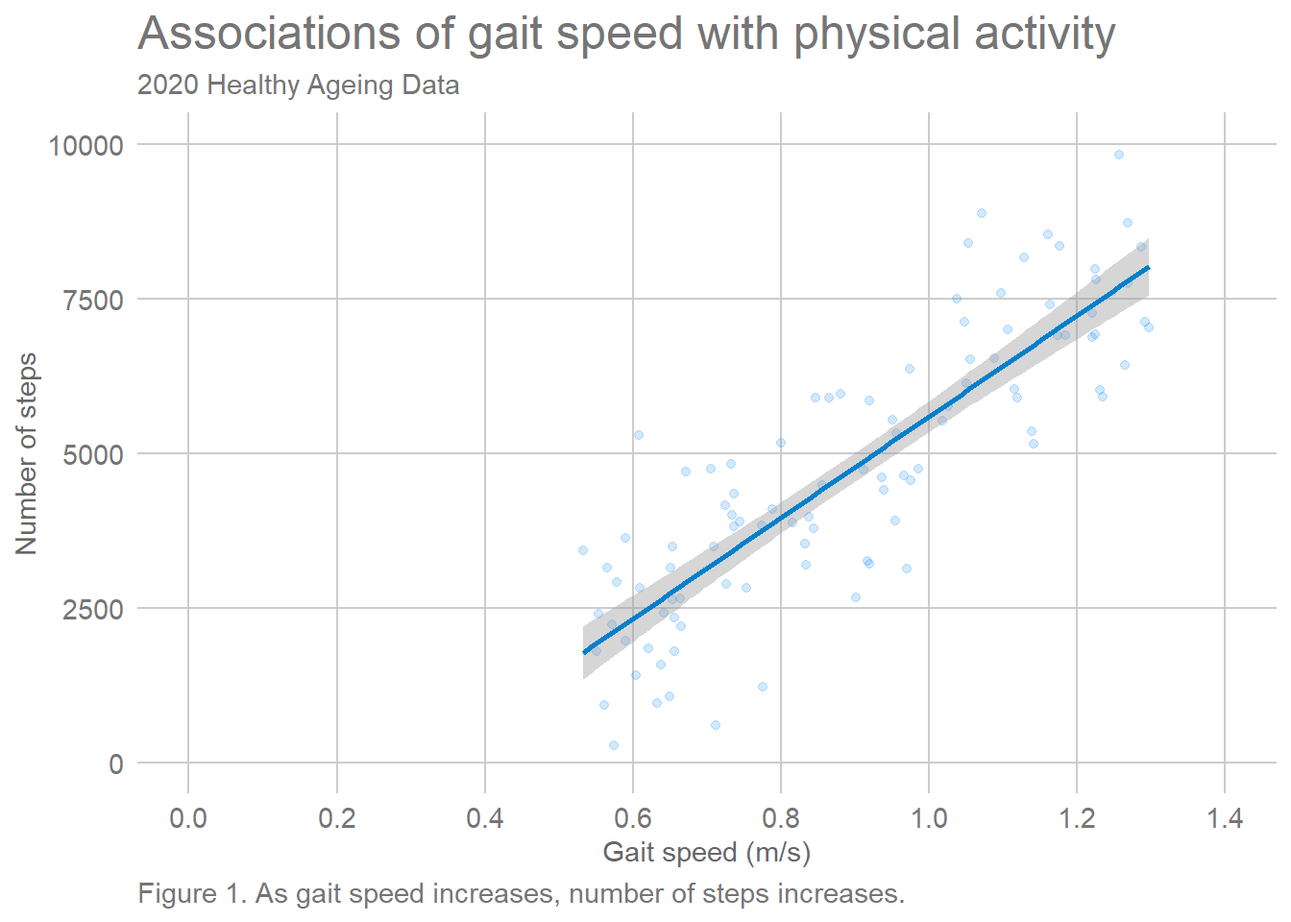
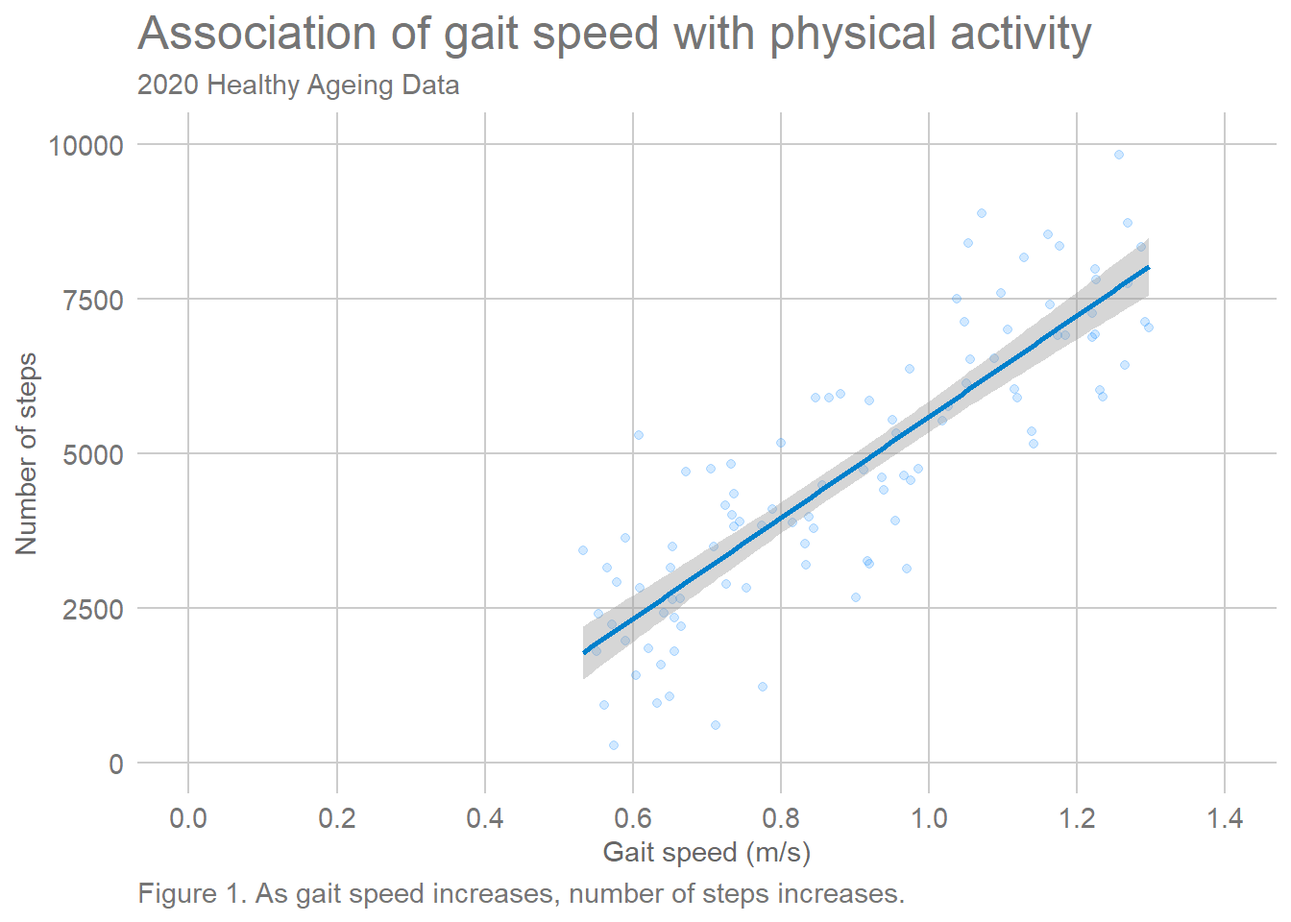
commit

Changed region(s): [[0.2812, 0.0, 0.875, 0.0625]]

diff --git a/docs/03-viz.html b/docs/03-viz.html
@@ -424,7 +424,7 @@ gtag('config', 'G-6NP3MF25W3', { 'anonymize_ip': true});
 </li>
 <li>Save it inside your ADS directory (<strong>not</strong> inside another project)</li>
 </ul>
-<p>Then, create and save a new <a href="https://psyteachr.github.io/glossary/r#r-markdown" target="_blank" class="glossary" title="The R-specific version of markdown: a way to specify formatting, such as headers, paragraphs, lists, bolding, and links, as well as code blocks and inline code.">R Markdown</a> document named <code>plots.Rmd</code>, get rid of the default template text, and load the packages in the set-up code <a href="https://psyteachr.github.io/glossary/c#chunk" target="_blank" class="glossary" title="A section of code in an R Markdown file">chunk</a>. You should have all of these packages installed already, but if you get the message <code>Error in library(x) : there is no package called ‘x’</code>, please refer to <a href="01-intro.html#sec-install-package" class="quarto-xref"><span>Section 1.3.1</span></a>.</p>
+<p>Then, create and save a new <a href="https://psyteachr.github.io/glossary/r#r-markdown" target="_blank" class="glossary" title="The R-specific version of markdown: a way to specify formatting, such as headers, paragraphs, lists, bolding, and links, as well as code blocks and inline code.">R Markdown</a> document named <code>plots.Rmd</code>, get rid of the default template text, and load the packages in the set-up code <a href="https://psyteachr.github.io/glossary/c#chunk" target="_blank" class="glossary" title="A section of code in an R Markdown file">chunk</a>. You should have all of these packages installed already, but if you get the message <code>Error in library(x) : there is no package called ‘x’</code>, please refer to <a href="#sec-install-package" class="quarto-xref"><span class="quarto-unresolved-ref">sec-install-package</span></a>.</p>
 <div class="cell" data-layout-align="center">
 <div class="sourceCode cell-code" id="cb1"><pre class="sourceCode numberSource r number-lines code-with-copy"><code class="sourceCode r"><span id="cb1-1"><a href="#cb1-1"></a><span class="fu">library</span>(tidyverse) <span class="co"># includes ggplot2</span></span>
 <span id="cb1-2"><a href="#cb1-2"></a><span class="fu">library</span>(patchwork) <span class="co"># for multi-part plots</span></span>
@@ -435,7 +435,7 @@ gtag('config', 'G-6NP3MF25W3', { 'anonymize_ip': true});
 <p>Download the <a href="https://raw.githubusercontent.com/rstudio/cheatsheets/main/data-visualization.pdf">ggplot2 cheat sheet</a>.</p>
 </section><section id="variable-types" class="level2" data-number="3.2"><h2 data-number="3.2" class="anchored" data-anchor-id="variable-types">
 <span class="header-section-number">3.2</span> Variable types</h2>
-<p>If a spreadsheet is in a <a href="https://psyteachr.github.io/glossary/t#tidy-data" target="_blank" class="glossary" title="A format for data that maps the meaning onto the structure.">tidy data</a> format, each row is an <a href="https://psyteachr.github.io/glossary/o#observation" target="_blank" class="glossary" title="All of the data about a single trial or question.">observation</a>, each column is a <a href="https://psyteachr.github.io/glossary/v#variable" target="_blank" class="glossary" title="(coding): A word that identifies and stores the value of some data for later use; (stats): An attribute or characteristic of an observation that you can measure, count, or describe">variable</a>, and the information in each cell is a single <a href="https://psyteachr.github.io/glossary/v#value" target="_blank" class="glossary" title="A single number or piece of data.">value</a>. We’ll learn more about how to get our data into this format in <a href="08-tidy.html" class="quarto-xref"><span>Chapter 8</span></a>, but to get started we’ll use datasets with the right format.</p>
+<p>If a spreadsheet is in a <a href="https://psyteachr.github.io/glossary/t#tidy-data" target="_blank" class="glossary" title="A format for data that maps the meaning onto the structure.">tidy data</a> format, each row is an <a href="https://psyteachr.github.io/glossary/o#observation" target="_blank" class="glossary" title="All of the data about a single trial or question.">observation</a>, each column is a <a href="https://psyteachr.github.io/glossary/v#variable" target="_blank" class="glossary" title="(coding): A word that identifies and stores the value of some data for later use; (stats): An attribute or characteristic of an observation that you can measure, count, or describe">variable</a>, and the information in each cell is a single <a href="https://psyteachr.github.io/glossary/v#value" target="_blank" class="glossary" title="A single number or piece of data.">value</a>. We’ll learn more about how to get our data into this format in <a href="#sec-tidy" class="quarto-xref"><span class="quarto-unresolved-ref">sec-tidy</span></a>, but to get started we’ll use datasets with the right format.</p>
 <p>For example, the table below lists patients who have recently participated in a rehabilitation programme. Each row is an observation of one patient. There are 6 variables for each patient, their <code>surname</code>, <code>firstname</code>, <code>sex</code>, <code>birthdate</code>, <code>weight</code> (in kg), and <code>generalhealth</code> rating (on a 5-point scale from “very poor” to “very good”).</p>
 <div class="cell" data-layout-align="center">
 <div class="cell-output-display">
@@ -487,7 +487,7 @@ gtag('config', 'G-6NP3MF25W3', { 'anonymize_ip': true});
 </div>
 </div>
 </div>
-<p>Variables can be classified as <a href="https://psyteachr.github.io/glossary/c#continuous" target="_blank" class="glossary" title="Data that can take on any values between other existing values.">continuous</a> (numbers) or <a href="https://psyteachr.github.io/glossary/c#categorical" target="_blank" class="glossary" title="Data that can only take certain values, such as types of pet.">categorical</a> (labels). When you’re plotting data, it’s important to know what kind of variables you have, which can help you decide what types of plots are most appropriate. Each variable also has a <a href="https://psyteachr.github.io/glossary/d#data-type" target="_blank" class="glossary" title="The kind of data represented by an object.">data type</a>, such as <a href="https://psyteachr.github.io/glossary/n#numeric" target="_blank" class="glossary" title="A data type representing a real decimal number or integer.">numeric</a> (numbers), <a href="https://psyteachr.github.io/glossary/c#character" target="_blank" class="glossary" title="A data type representing strings of text.">character</a> (text), or <a href="https://psyteachr.github.io/glossary/l#logical" target="_blank" class="glossary" title="A data type representing TRUE or FALSE values.">logical</a> (TRUE/FALSE values). Some plots can only work on some data types. Make sure you have watched the mini-lecture on types of data from last week before you work through this chapter. Additionally, <a href="app-datatypes.html" class="quarto-xref"><span>Appendix G</span></a> has more details, as this concept will be relevant repeatedly.</p>
+<p>Variables can be classified as <a href="https://psyteachr.github.io/glossary/c#continuous" target="_blank" class="glossary" title="Data that can take on any values between other existing values.">continuous</a> (numbers) or <a href="https://psyteachr.github.io/glossary/c#categorical" target="_blank" class="glossary" title="Data that can only take certain values, such as types of pet.">categorical</a> (labels). When you’re plotting data, it’s important to know what kind of variables you have, which can help you decide what types of plots are most appropriate. Each variable also has a <a href="https://psyteachr.github.io/glossary/d#data-type" target="_blank" class="glossary" title="The kind of data represented by an object.">data type</a>, such as <a href="https://psyteachr.github.io/glossary/n#numeric" target="_blank" class="glossary" title="A data type representing a real decimal number or integer.">numeric</a> (numbers), <a href="https://psyteachr.github.io/glossary/c#character" target="_blank" class="glossary" title="A data type representing strings of text.">character</a> (text), or <a href="https://psyteachr.github.io/glossary/l#logical" target="_blank" class="glossary" title="A data type representing TRUE or FALSE values.">logical</a> (TRUE/FALSE values). Some plots can only work on some data types. Make sure you have watched the mini-lecture on types of data from last week before you work through this chapter. Additionally, <a href="#sec-data-types" class="quarto-xref"><span class="quarto-unresolved-ref">sec-data-types</span></a> has more details, as this concept will be relevant repeatedly.</p>
 <div class="cell" data-layout-align="center">
 <div class="cell-output-display">
 <div class="quarto-figure quarto-figure-center">
@@ -542,7 +542,7 @@ Do not factor numbers
 </div>
 </div>
 </div>
-<p>Sometimes people represent categorical variables with numbers that correspond to names, like 0 = “no” and 1 = “yes”, but values in between don’t have a clear interpretation. If you have control over how the data are recorded, it’s better to use the character names for clarity. You’ll learn how to recode columns in <a href="09-wrangle.html" class="quarto-xref"><span>Chapter 9</span></a>.</p>
+<p>Sometimes people represent categorical variables with numbers that correspond to names, like 0 = “no” and 1 = “yes”, but values in between don’t have a clear interpretation. If you have control over how the data are recorded, it’s better to use the character names for clarity. You’ll learn how to recode columns in <a href="#sec-wrangle" class="quarto-xref"><span class="quarto-unresolved-ref">sec-wrangle</span></a>.</p>
 </section><section id="dates-and-times" class="level3" data-number="3.2.3"><h3 data-number="3.2.3" class="anchored" data-anchor-id="dates-and-times">
 <span class="header-section-number">3.2.3</span> Dates and times</h3>
 <p>Dates and times are a special case of variable. They can act like categorical or continuous variables, and there are special ways to plot them. Dates and times can be hard to work with, but the [<pkg>lubridate</pkg>(https://lubridate.tidyverse.org/) package provides functions to help you with this.</p>
@@ -557,7 +557,7 @@ Do not factor numbers
 <div class="sourceCode cell-code" id="cb8"><pre class="sourceCode numberSource r number-lines code-with-copy"><code class="sourceCode r"><span id="cb8-1"><a href="#cb8-1"></a><span class="co"># the current date and time in the GMT timezone</span></span>
 <span id="cb8-2"><a href="#cb8-2"></a>lubridate<span class="sc">::</span><span class="fu">now</span>(<span class="at">tzone =</span> <span class="st">"GMT"</span>)</span></code><button title="Copy to Clipboard" class="code-copy-button"><i class="bi"></i></button></pre></div>
 <div class="cell-output cell-output-stdout">
-<pre><code>[1] "2024-10-04 15:11:01 GMT"</code></pre>
+<pre><code>[1] "2024-10-04 16:39:12 GMT"</code></pre>
 </div>
 </div>
 <div class="try callout callout-style-default callout-note callout-titled">
@@ -681,7 +681,7 @@ $ generalhealth &lt;fct&gt; poor, very good, fair, very good</code></pre>
 </section></section><section id="building-plots" class="level2" data-number="3.3"><h2 data-number="3.3" class="anchored" data-anchor-id="building-plots">
 <span class="header-section-number">3.3</span> Building plots</h2>
 <p>There are multiple approaches to data visualisation in R; in this course we will use the popular package <pkg>ggplot2</pkg>, which is part of the larger <code>tidyverse</code> collection of packages. A grammar of graphics (the “gg” in “ggplot”) is a standardised way to describe the components of a graphic. <pkg>ggplot2</pkg> uses a layered grammar of graphics, in which plots are built up in a series of layers. It may be helpful to think about any picture as having multiple elements that sit semi-transparently over each other. A good analogy is old Disney movies where artists would create a background and then add moveable elements on top of the background via transparencies.</p>
-<p><a href="#fig-layers" class="quarto-xref">Figure&nbsp;<span>3.1</span></a> displays the evolution of a simple scatterplot using this layered approach. First, the plot space is built (layer 1); the variables are specified (layer 2); the type of visualisation (known as a <code>geom</code>) that is desired for these variables is specified (layer 3) - in this case <code>geom_point()</code> is called to visualise individual data points; a second geom is added to include a line of best fit (layer 4), the axis labels are edited for readability (layer 5), and finally, a theme is applied to change the overall appearance of the plot (layer 6).</p>
+<p><a href="#fig-layers" class="quarto-xref">Figure&nbsp;<span class="quarto-unresolved-ref">fig-layers</span></a> displays the evolution of a simple scatterplot using this layered approach. First, the plot space is built (layer 1); the variables are specified (layer 2); the type of visualisation (known as a <code>geom</code>) that is desired for these variables is specified (layer 3) - in this case <code>geom_point()</code> is called to visualise individual data points; a second geom is added to include a line of best fit (layer 4), the axis labels are edited for readability (layer 5), and finally, a theme is applied to change the overall appearance of the plot (layer 6).</p>
 <div class="cell" data-layout-align="center">
 <div class="cell-output-display">
 <div id="fig-layers" class="quarto-figure quarto-figure-center quarto-float anchored" data-fig-align="center">
@@ -694,7 +694,7 @@ Figure&nbsp;3.1: Evolution of a layered plot
 </div>
 </div>
 </div>
-<p>Importantly, each layer is independent and independently customisable. For example, the size, colour and position of each component can be adjusted, or one could, for example, remove the first geom (the data points) to only visualise the line of best fit, simply by removing the layer that draws the data points (<a href="#fig-remove-layer" class="quarto-xref">Figure&nbsp;<span>3.2</span></a>). The use of layers makes it easy to build up complex plots step-by-step, and to adapt or extend plots from existing code.</p>
+<p>Importantly, each layer is independent and independently customisable. For example, the size, colour and position of each component can be adjusted, or one could, for example, remove the first geom (the data points) to only visualise the line of best fit, simply by removing the layer that draws the data points (<a href="#fig-remove-layer" class="quarto-xref">Figure&nbsp;<span class="quarto-unresolved-ref">fig-remove-layer</span></a>). The use of layers makes it easy to build up complex plots step-by-step, and to adapt or extend plots from existing code.</p>
 <div class="cell" data-layout-align="center">
 <div class="cell-output-display">
 <div id="fig-remove-layer" class="quarto-figure quarto-figure-center quarto-float anchored" data-fig-align="center">
@@ -709,7 +709,7 @@ Figure&nbsp;3.2: Final plot with scatterplot layer removed.
 </div>
 <section id="sec-plots-loading-data" class="level3" data-number="3.3.1"><h3 data-number="3.3.1" class="anchored" data-anchor-id="sec-plots-loading-data">
 <span class="header-section-number">3.3.1</span> Plot Data</h3>
-<p>Let’s build up the plot above, layer by layer. First we need to get the data. We’ll learn how to load data from different sources in <a href="04-data.html" class="quarto-xref"><span>Chapter 4</span></a>, but this time we’ll use the same method as we did in <a href="02-reports.html#sec-loading-online" class="quarto-xref"><span>Section 2.4.1</span></a> and load it from an online source.</p>
+<p>Let’s build up the plot above, layer by layer. First we need to get the data. We’ll learn how to load data from different sources in <a href="#sec-data" class="quarto-xref"><span class="quarto-unresolved-ref">sec-data</span></a>, but this time we’ll use the same method as we did in <a href="#sec-loading-online" class="quarto-xref"><span class="quarto-unresolved-ref">sec-loading-online</span></a> and load it from an online source.</p>
 <p>When you load the data, <code>read_csv()</code> will produce a message that gives you information about the data it has imported and what assumptions it has made. The “column specification” tells you what each column is named and what type of data R has categorised each variable as. The abbreviation “chr” is for <a href="https://psyteachr.github.io/glossary/c#character" target="_blank" class="glossary" title="A data type representing strings of text.">character</a> columns, “dbl” is for <a href="https://psyteachr.github.io/glossary/d#double" target="_blank" class="glossary" title="A data type representing a real decimal number">double</a> columns, and “dttm” is a date/time column.</p>
 <div class="cell" data-layout-align="center">
 <div class="sourceCode cell-code" id="cb12"><pre class="sourceCode numberSource r number-lines code-with-copy"><code class="sourceCode r"><span id="cb12-1"><a href="#cb12-1"></a>function_data <span class="ot">&lt;-</span> <span class="fu">read_csv</span>(<span class="st">"https://healthteachr.github.io/data/Function_and_PA_data.csv"</span>)</span></code><button title="Copy to Clipboard" class="code-copy-button"><i class="bi"></i></button></pre></div>
@@ -801,7 +801,7 @@ Define objects before you use them
 </section><section id="plot-setup" class="level3" data-number="3.3.2"><h3 data-number="3.3.2" class="anchored" data-anchor-id="plot-setup">
 <span class="header-section-number">3.3.2</span> Plot setup</h3>
 <section id="default-theme" class="level4"><h4 class="anchored" data-anchor-id="default-theme">Default theme</h4>
-<p>Plots in this book use the black-and-white theme, not the default grey theme, so set your default theme to the same so your plots will look like the examples below. At the top of your script, in the setup chunk after you’ve loaded the tidyverse package, add the following code and run it. You’ll learn more ways to customise your theme in <a href="#sec-themes" class="quarto-xref"><span>Section 3.3.3.4</span></a> and <a href="app-styling.html#sec-themes-appendix" class="quarto-xref"><span>Section I.3</span></a>.</p>
+<p>Plots in this book use the black-and-white theme, not the default grey theme, so set your default theme to the same so your plots will look like the examples below. At the top of your script, in the setup chunk after you’ve loaded the tidyverse package, add the following code and run it. You’ll learn more ways to customise your theme in <a href="#sec-themes" class="quarto-xref"><span class="quarto-unresolved-ref">sec-themes</span></a> and <a href="#sec-themes-appendix" class="quarto-xref"><span class="quarto-unresolved-ref">sec-themes-appendix</span></a>.</p>
 <div class="cell" data-layout-align="center">
 <div class="sourceCode cell-code" id="cb17"><pre class="sourceCode numberSource r number-lines code-with-copy"><code class="sourceCode r"><span id="cb17-1"><a href="#cb17-1"></a><span class="fu">theme_set</span>(<span class="fu">theme_bw</span>()) <span class="co"># set the default theme</span></span></code><button title="Copy to Clipboard" class="code-copy-button"><i class="bi"></i></button></pre></div>
 </div>
@@ -979,7 +979,7 @@ Try changing nrow to 2
 <span class="header-section-number">3.3.3</span> Customising plots</h3>
 <p>There are nearly endless ways to customise ggplots. We’ll cover a few of the basic customisations here.</p>
 <section id="styling-geoms" class="level4"><h4 class="anchored" data-anchor-id="styling-geoms">Styling geoms</h4>
-<p>We should definitely put the line in front of the points, but the points are still a bit dark. If you want to change the overall style of a geom, you can set the arguments <code>colour</code>, <code>alpha</code>, <code>shape</code>, <code>size</code> and <code>linetype</code> inside the geom function. There are many different values that you can set these to; <a href="app-styling.html" class="quarto-xref"><span>Appendix I</span></a>) gives details of these. Play around with different values below and figure out what the <a href="https://psyteachr.github.io/glossary/d#default-value" target="_blank" class="glossary" title="A value that a function uses for an argument if it is skipped.">default values</a> are for <code>shape</code> and <code>size</code>.</p>
+<p>We should definitely put the line in front of the points, but the points are still a bit dark. If you want to change the overall style of a geom, you can set the arguments <code>colour</code>, <code>alpha</code>, <code>shape</code>, <code>size</code> and <code>linetype</code> inside the geom function. There are many different values that you can set these to; <a href="#sec-plotstyle" class="quarto-xref"><span class="quarto-unresolved-ref">sec-plotstyle</span></a>) gives details of these. Play around with different values below and figure out what the <a href="https://psyteachr.github.io/glossary/d#default-value" target="_blank" class="glossary" title="A value that a function uses for an argument if it is skipped.">default values</a> are for <code>shape</code> and <code>size</code>.</p>
 <div class="cell" data-layout-align="center">
 <div class="sourceCode cell-code" id="cb29"><pre class="sourceCode numberSource r number-lines code-with-copy"><code class="sourceCode r"><span id="cb29-1"><a href="#cb29-1"></a><span class="fu">ggplot</span>(function_data, <span class="fu">aes</span>(<span class="at">x =</span> gaitspeed, <span class="at">y =</span> steps)) <span class="sc">+</span></span>
 <span id="cb29-2"><a href="#cb29-2"></a>  <span class="fu">geom_point</span>(<span class="at">colour =</span> <span class="st">"dodgerblue"</span>, </span>
@@ -1012,7 +1012,7 @@ Setting aesthetics overall versus by category
 </div>
 </div>
 <div class="callout-body-container callout-body">
-<p>This method is only for changing the style of <em>all</em> the shapes made with that geom. If you want, for example, points to have different colours depending on the type of musculoskeletal disease, you set the argument <code>colour = musculoskeletal</code> inside the <code>aes()</code> function for the mapping. You can customise the colours used with <code>scale_</code> functions, which you will learn about below and in <a href="app-styling.html" class="quarto-xref"><span>Appendix I</span></a>).</p>
+<p>This method is only for changing the style of <em>all</em> the shapes made with that geom. If you want, for example, points to have different colours depending on the type of musculoskeletal disease, you set the argument <code>colour = musculoskeletal</code> inside the <code>aes()</code> function for the mapping. You can customise the colours used with <code>scale_</code> functions, which you will learn about below and in <a href="#sec-plotstyle" class="quarto-xref"><span class="quarto-unresolved-ref">sec-plotstyle</span></a>).</p>
 </div>
 </div>
 </section><section id="format-axes" class="level4"><h4 class="anchored" data-anchor-id="format-axes">Format axes</h4>
@@ -1183,7 +1183,7 @@ Figure&nbsp;3.12: Customising the theme to remove the x-axis line and background
 <span id="cb36-13"><a href="#cb36-13"></a>  <span class="fu">theme_gdocs</span>(<span class="at">base_size =</span> <span class="dv">11</span>) <span class="sc">+</span></span>
 <span id="cb36-14"><a href="#cb36-14"></a>  <span class="fu">theme</span>(<span class="at">axis.line.x =</span> <span class="fu">element_blank</span>(),</span>
 <span id="cb36-15"><a href="#cb36-15"></a>        <span class="at">plot.background =</span> <span class="fu">element_blank</span>()) <span class="sc">+</span></span>
-<span id="cb36-16"><a href="#cb36-16"></a>  <span class="fu">labs</span>(<span class="at">title =</span> <span class="st">"Associations of gait speed with physical activity"</span>,</span>
+<span id="cb36-16"><a href="#cb36-16"></a>  <span class="fu">labs</span>(<span class="at">title =</span> <span class="st">"Association of gait speed with physical activity"</span>,</span>
 <span id="cb36-17"><a href="#cb36-17"></a>       <span class="at">subtitle =</span> <span class="st">"2020 Healthy Ageing Data"</span>,</span>
 <span id="cb36-18"><a href="#cb36-18"></a>       <span class="at">caption =</span> <span class="st">"Figure 1. As gait speed increases, number of steps increases."</span>)</span></code><button title="Copy to Clipboard" class="code-copy-button"><i class="bi"></i></button></pre></div>
 <div class="cell-output-display">
@@ -1197,7 +1197,7 @@ Figure&nbsp;3.13: Adding a title, subtitle, and caption.
 </div>
 </div>
 </div>
-<p>However, it is more accessible to include this sort of information in plain text for screen readers. You can add a text caption in the chunk header, and some document types will even automatically number figures for you (you’ll learn about this in <a href="10-custom.html#sec-linked-docs" class="quarto-xref"><span>Section 10.2.2</span></a>). You can also add alt-text descriptions for screen readers that describe the image.</p>
+<p>However, it is more accessible to include this sort of information in plain text for screen readers. You can add a text caption in the chunk header, and some document types will even automatically number figures for you (you’ll learn about this in <a href="#sec-linked-docs" class="quarto-xref"><span class="quarto-unresolved-ref">sec-linked-docs</span></a>). You can also add alt-text descriptions for screen readers that describe the image.</p>
 <div class="cell" data-layout-align="center" data-verbatim="r fig-gait-vs-steps, fig.cap=&quot;As gait speed increases, number of steps increases.&quot;, fig.alt=&quot;A scatterplot showing gait speed on the x-axis (range 0.0-1.3 m/s) and number of steps on the y-axis (range 0-9829 steps) with a trend line showing that as gait speed increases, number of steps increases from about 0.6m/s gait speed/2400 steps to about 1.2m/s gait speed/7400 steps.&quot;">
 <div class="verbatim">
 <pre class="sourceCode r code-with-copy"><code class="sourceCode R">```{r fig-gait-vs-steps, fig.cap="As gait speed increases, number of steps increases.", fig.alt="A scatterplot showing gait speed on the x-axis (range 0.0-1.3 m/s) and number of steps on the y-axis (range 0-9829 steps) with a trend line showing that as gait speed increases, number of steps increases from about 0.6m/s gait speed/2400 steps to about 1.2m/s gait speed/7400 steps."}</code><button title="Copy to Clipboard" class="code-copy-button"><i class="bi"></i></button></pre>
@@ -1238,7 +1238,7 @@ Customising bar plot appearance
 </div>
 </div>
 <div class="callout-body-container callout-body">
-<p>You probably want to customise some things, like the colours, order of the columns, and their labels. Inspect the code below and try running it layer by layer to figure out where these things change. The functions <code>scale_fill_manual()</code> and <code>scale_x_discrete()</code> are new, but work in the same way as the other <code>scale_</code> functions. You’ll learn more about this in <a href="10-custom.html#sec-custom-viz" class="quarto-xref"><span>Section 10.1</span></a>.</p>
+<p>You probably want to customise some things, like the colours, order of the columns, and their labels. Inspect the code below and try running it layer by layer to figure out where these things change. The functions <code>scale_fill_manual()</code> and <code>scale_x_discrete()</code> are new, but work in the same way as the other <code>scale_</code> functions. You’ll learn more about this in <a href="#sec-custom-viz" class="quarto-xref"><span class="quarto-unresolved-ref">sec-custom-viz</span></a>.</p>
 <div class="cell" data-layout-align="center" data-webex.hide="Code">
 <div class="callout callout-style-default callout-note callout-titled">
 <div class="callout-header d-flex align-content-center" data-bs-toggle="collapse" data-bs-target=".callout-10-contents" aria-controls="callout-10" aria-expanded="false" aria-label="Toggle callout">
@@ -1366,7 +1366,7 @@ Figure&nbsp;3.15: A basic column plot.
 </div>
 </div>
 </section><section id="pie-chart" class="level4"><h4 class="anchored" data-anchor-id="pie-chart">Pie chart</h4>
-<p>Pie charts are a <a href="https://www.data-to-viz.com/caveat/pie.html" target="_blank">misleading form of data visualisation</a>, so we won’t cover them. We’ll cover options for visualising proportions, like waffle, lollipop and treemap plots, in <a href="10-custom.html#sec-other-plots" class="quarto-xref"><span>Section 10.1.4</span></a>.</p>
+<p>Pie charts are a <a href="https://www.data-to-viz.com/caveat/pie.html" target="_blank">misleading form of data visualisation</a>, so we won’t cover them. We’ll cover options for visualising proportions, like waffle, lollipop and treemap plots, in <a href="#sec-other-plots" class="quarto-xref"><span class="quarto-unresolved-ref">sec-other-plots</span></a>.</p>
 <div class="try callout callout-style-default callout-note callout-titled">
 <div class="callout-header d-flex align-content-center">
 <div class="callout-icon-container">
@@ -1421,8 +1421,8 @@ Test your understanding
 <div class="cell" data-layout-align="center">
 <ul>
 <li>What mapping would you use?
-<div id="radio_EPHIGYNLNV" class="webex-radiogroup">
-<label><input type="radio" autocomplete="off" name="radio_EPHIGYNLNV" value="answer"><span>aes(x = country, y = population)</span></label><label><input type="radio" autocomplete="off" name="radio_EPHIGYNLNV" value="x"><span>aes(x = population, y = country)</span></label><label><input type="radio" autocomplete="off" name="radio_EPHIGYNLNV" value="x"><span>aes(x = country)</span></label><label><input type="radio" autocomplete="off" name="radio_EPHIGYNLNV" value="x"><span>aes(x = island)</span></label><label><input type="radio" autocomplete="off" name="radio_EPHIGYNLNV" value="x"><span>aes(y = population)</span></label>
+<div id="radio_YAEQMNOVWT" class="webex-radiogroup">
+<label><input type="radio" autocomplete="off" name="radio_YAEQMNOVWT" value="answer"><span>aes(x = country, y = population)</span></label><label><input type="radio" autocomplete="off" name="radio_YAEQMNOVWT" value="x"><span>aes(x = population, y = country)</span></label><label><input type="radio" autocomplete="off" name="radio_YAEQMNOVWT" value="x"><span>aes(x = country)</span></label><label><input type="radio" autocomplete="off" name="radio_YAEQMNOVWT" value="x"><span>aes(x = island)</span></label><label><input type="radio" autocomplete="off" name="radio_YAEQMNOVWT" value="x"><span>aes(y = population)</span></label>
 </div>
 </li>
 </ul>
@@ -1436,8 +1436,8 @@ Test your understanding
 <div class="cell" data-layout-align="center">
 <ul>
 <li>What mapping would you use?
-<div id="radio_IAEOUYKDAV" class="webex-radiogroup">
-<label><input type="radio" autocomplete="off" name="radio_IAEOUYKDAV" value="x"><span>aes(x = country, y = population)</span></label><label><input type="radio" autocomplete="off" name="radio_IAEOUYKDAV" value="x"><span>aes(x = population, y = country)</span></label><label><input type="radio" autocomplete="off" name="radio_IAEOUYKDAV" value="x"><span>aes(x = country)</span></label><label><input type="radio" autocomplete="off" name="radio_IAEOUYKDAV" value="answer"><span>aes(x = island)</span></label><label><input type="radio" autocomplete="off" name="radio_IAEOUYKDAV" value="x"><span>aes(y = population)</span></label>
+<div id="radio_QAARLQQLTX" class="webex-radiogroup">
+<label><input type="radio" autocomplete="off" name="radio_QAARLQQLTX" value="x"><span>aes(x = country, y = population)</span></label><label><input type="radio" autocomplete="off" name="radio_QAARLQQLTX" value="x"><span>aes(x = population, y = country)</span></label><label><input type="radio" autocomplete="off" name="radio_QAARLQQLTX" value="x"><span>aes(x = country)</span></label><label><input type="radio" autocomplete="off" name="radio_QAARLQQLTX" value="answer"><span>aes(x = island)</span></label><label><input type="radio" autocomplete="off" name="radio_QAARLQQLTX" value="x"><span>aes(y = population)</span></label>
 </div>
 </li>
 </ul>
@@ -1532,8 +1532,8 @@ Test your understanding
 <div class="cell" data-layout-align="center">
 <ul>
 <li>How would you set the mapping for this plot?
-<div id="radio_OVUYXVFTRL" class="webex-radiogroup">
-<label><input type="radio" autocomplete="off" name="radio_OVUYXVFTRL" value="x"><span>aes(x = country, y = population)</span></label><label><input type="radio" autocomplete="off" name="radio_OVUYXVFTRL" value="x"><span>aes(x = population, y = country)</span></label><label><input type="radio" autocomplete="off" name="radio_OVUYXVFTRL" value="answer"><span>aes(x = population)</span></label><label><input type="radio" autocomplete="off" name="radio_OVUYXVFTRL" value="x"><span>aes(x = population, y = count)</span></label>
+<div id="radio_ENYCZOQOCL" class="webex-radiogroup">
+<label><input type="radio" autocomplete="off" name="radio_ENYCZOQOCL" value="x"><span>aes(x = country, y = population)</span></label><label><input type="radio" autocomplete="off" name="radio_ENYCZOQOCL" value="x"><span>aes(x = population, y = country)</span></label><label><input type="radio" autocomplete="off" name="radio_ENYCZOQOCL" value="answer"><span>aes(x = population)</span></label><label><input type="radio" autocomplete="off" name="radio_ENYCZOQOCL" value="x"><span>aes(x = population, y = count)</span></label>
 </div>
 </li>
 </ul>
@@ -1674,7 +1674,7 @@ Frequency plot alternative
 </div>
 <div id="callout-17" class="callout-17-contents callout-collapse collapse">
 <div class="callout-body-container callout-body">
-<p>Alternatively, you can use <code>geom_freqpoly()</code> to plot a line connecting the top of each bin (see <a href="10-custom.html#sec-freqpoly" class="quarto-xref"><span>Section 10.1.4.1.1</span></a>).</p>
+<p>Alternatively, you can use <code>geom_freqpoly()</code> to plot a line connecting the top of each bin (see <a href="#sec-freqpoly" class="quarto-xref"><span class="quarto-unresolved-ref">sec-freqpoly</span></a>).</p>
 <div class="cell" data-layout-align="center">
 <div class="sourceCode cell-code" id="cb53"><pre class="sourceCode numberSource r number-lines code-with-copy"><code class="sourceCode r"><span id="cb53-1"><a href="#cb53-1"></a><span class="co"># frequency plot</span></span>
 <span id="cb53-2"><a href="#cb53-2"></a><span class="fu">ggplot</span>(function_data, <span class="fu">aes</span>(<span class="at">x =</span> steps,</span>
@@ -1856,22 +1856,22 @@ Test your understanding
 <option value="x">geom_violinplot()</option></select>
 </li>
 <li>What does the mapping look like for both plots?
-<div id="radio_YETQAFVVFN" class="webex-radiogroup">
-<label><input type="radio" autocomplete="off" name="radio_YETQAFVVFN" value="x"><span>aes(x = musculoskeletal, y = gaitspeed, fill = gaitspeed)</span></label><label><input type="radio" autocomplete="off" name="radio_YETQAFVVFN" value="x"><span>aes(x = musculoskeletal, y = gaitspeed, colour = musculoskeletal)</span></label><label><input type="radio" autocomplete="off" name="radio_YETQAFVVFN" value="answer"><span>aes(x = musculoskeletal, y = gaitspeed, fill = musculoskeletal)</span></label><label><input type="radio" autocomplete="off" name="radio_YETQAFVVFN" value="x"><span>aes(x = musculoskeletal, y = gaitspeed, colour = gaitspeed)</span></label>
+<div id="radio_TNILQFCZRH" class="webex-radiogroup">
+<label><input type="radio" autocomplete="off" name="radio_TNILQFCZRH" value="answer"><span>aes(x = musculoskeletal, y = gaitspeed, fill = musculoskeletal)</span></label><label><input type="radio" autocomplete="off" name="radio_TNILQFCZRH" value="x"><span>aes(x = musculoskeletal, y = gaitspeed, colour = gaitspeed)</span></label><label><input type="radio" autocomplete="off" name="radio_TNILQFCZRH" value="x"><span>aes(x = musculoskeletal, y = gaitspeed, fill = gaitspeed)</span></label><label><input type="radio" autocomplete="off" name="radio_TNILQFCZRH" value="x"><span>aes(x = musculoskeletal, y = gaitspeed, colour = musculoskeletal)</span></label>
 </div>
 </li>
 <li>Which category is characterised by the slowest median gait speed? <select class="webex-select"><option value="blank"></option>
-<option value="x">None</option>
 <option value="x">Osteoarthritis</option>
-<option value="x">Rheumatoid arthritis</option>
 <option value="x">Sarcopenia</option>
+<option value="x">None</option>
+<option value="x">Rheumatoid arthritis</option>
 <option value="answer">Osteoporosis</option></select>
 </li>
 <li>Which category is characterised by the quickest median gait speed? <select class="webex-select"><option value="blank"></option>
-<option value="x">Rheumatoid arthritis</option>
 <option value="answer">None</option>
 <option value="x">Sarcopenia</option>
 <option value="x">Osteoporosis</option>
+<option value="x">Rheumatoid arthritis</option>
 <option value="x">Osteoarthritis</option></select>
 </li>
 </ul>
@@ -1897,7 +1897,7 @@ Figure&nbsp;3.25: Scatterplot with geom_point().
 </div>
 </div>
 </section><section id="trendlines" class="level4"><h4 class="anchored" data-anchor-id="trendlines">Trendlines</h4>
-<p>In <a href="#fig-layers" class="quarto-xref">Figure&nbsp;<span>3.1</span></a>, we emphasised the relationship between gait speed and number of steps with a trendline created by <code>geom_smooth()</code> using the argument <code>method = lm</code> (“lm” stands for “linear model” or a straight line relationship). You can also set <code>method = loess</code> to visualise a non-linear relationship.</p>
+<p>In <a href="#fig-layers" class="quarto-xref">Figure&nbsp;<span class="quarto-unresolved-ref">fig-layers</span></a>, we emphasised the relationship between gait speed and number of steps with a trendline created by <code>geom_smooth()</code> using the argument <code>method = lm</code> (“lm” stands for “linear model” or a straight line relationship). You can also set <code>method = loess</code> to visualise a non-linear relationship.</p>
 <div class="cell" data-layout-align="center">
 <div class="sourceCode cell-code" id="cb59"><pre class="sourceCode numberSource r number-lines code-with-copy"><code class="sourceCode r"><span id="cb59-1"><a href="#cb59-1"></a>lm_plot <span class="ot">&lt;-</span> </span>
 <span id="cb59-2"><a href="#cb59-2"></a>  <span class="fu">ggplot</span>(function_data, <span class="fu">aes</span>(<span class="at">x =</span> gaitspeed, <span class="at">y =</span> steps)) <span class="sc">+</span></span>
@@ -2103,12 +2103,12 @@ More plots styles
 </div>
 </div>
 <div class="callout-body-container callout-body">
-<p>These are not, by any means, all the plot types that you can make in R. This chapter just gave you a basic overview, and we will go into more detail in <a href="10-custom.html#sec-custom-viz" class="quarto-xref"><span>Section 10.1</span></a>). The <a href="#resources-viz">further resources</a> section at the end of this chapter lists many resources, but the <a href="http://www.r-graph-gallery.com/" target="_blank">R Graph Gallery</a> is especially useful to get inspiration for the kinds of beautiful plots you can make in R.</p>
+<p>These are not, by any means, all the plot types that you can make in R. This chapter just gave you a basic overview, and we will go into more detail in <a href="#sec-custom-viz" class="quarto-xref"><span class="quarto-unresolved-ref">sec-custom-viz</span></a>). The <a href="#resources-viz">further resources</a> section at the end of this chapter lists many resources, but the <a href="http://www.r-graph-gallery.com/" target="_blank">R Graph Gallery</a> is especially useful to get inspiration for the kinds of beautiful plots you can make in R.</p>
 </div>
 </div>
 </section></section></section><section id="exercises" class="level2" data-number="3.5"><h2 data-number="3.5" class="anchored" data-anchor-id="exercises">
 <span class="header-section-number">3.5</span> Exercises</h2>
-<p>For the final step in this chapter, we will create a report of data visualisations. You may need to refer back to <a href="02-reports.html" class="quarto-xref"><span>Chapter 2</span></a>) to help you complete these exercises and you may also want to take a break before you work through this section. We’d also recommend you <a href="https://psyteachr.github.io/glossary/k#knit" target="_blank" class="glossary" title="To create an HTML, PDF, or Word document from an R Markdown (Rmd) document">knit</a> at every step so that you can see how your output changes.</p>
+<p>For the final step in this chapter, we will create a report of data visualisations. You may need to refer back to <a href="#sec-reports" class="quarto-xref"><span class="quarto-unresolved-ref">sec-reports</span></a>) to help you complete these exercises and you may also want to take a break before you work through this section. We’d also recommend you <a href="https://psyteachr.github.io/glossary/k#knit" target="_blank" class="glossary" title="To create an HTML, PDF, or Word document from an R Markdown (Rmd) document">knit</a> at every step so that you can see how your output changes.</p>
 <section id="sec-exercises-new-rmd-3" class="level3" data-number="3.5.1"><h3 data-number="3.5.1" class="anchored" data-anchor-id="sec-exercises-new-rmd-3">
 <span class="header-section-number">3.5.1</span> New Markdown</h3>
 <p>Create and save a new R Markdown document named <code>plots_report.Rmd</code> and give it the title “Healthy ageing report”. Remove the default template text and then load the packages and code below in the set-up code chunk:</p>
@@ -2124,7 +2124,7 @@ More plots styles
 </div>
 </section><section id="sec-exercises-summary" class="level3" data-number="3.5.2"><h3 data-number="3.5.2" class="anchored" data-anchor-id="sec-exercises-summary">
 <span class="header-section-number">3.5.2</span> Summary</h3>
-<p>Create a level 1 heading titled “Overview”. Underneath this heading, write a short summary of what the data set contains and what each of the variables means (you can use the information from <a href="#sec-plots-loading-data" class="quarto-xref"><span>Section 3.3.1</span></a> if you like).</p>
+<p>Create a level 1 heading titled “Overview”. Underneath this heading, write a short summary of what the data set contains and what each of the variables means (you can use the information from <a href="#sec-plots-loading-data" class="quarto-xref"><span class="quarto-unresolved-ref">sec-plots-loading-data</span></a> if you like).</p>
 </section><section id="presenting-plots" class="level3" data-number="3.5.3"><h3 data-number="3.5.3" class="anchored" data-anchor-id="presenting-plots">
 <span class="header-section-number">3.5.3</span> Presenting plots</h3>
 <p>Pick your two favourites plots from all the examples we’ve made in this chapter. For each plot:</p>
@@ -2144,7 +2144,7 @@ More plots styles
 <li>Organise your Markdown so that the plots are shown <strong>after</strong> the text summary.</li>
 </ul></section><section id="editing-your-markdown-display" class="level3" data-number="3.5.5"><h3 data-number="3.5.5" class="anchored" data-anchor-id="editing-your-markdown-display">
 <span class="header-section-number">3.5.5</span> Editing your Markdown display</h3>
-<p>Adjust the set-up of your Markdown so that your knitted report does not show any code, messages, or warnings, and all figures are 8 x 5 (see <a href="02-reports.html#sec-rmd-setup" class="quarto-xref"><span>Section 2.6.1</span></a>).</p>
+<p>Adjust the set-up of your Markdown so that your knitted report does not show any code, messages, or warnings, and all figures are 8 x 5 (see <a href="#sec-rmd-setup" class="quarto-xref"><span class="quarto-unresolved-ref">sec-rmd-setup</span></a>).</p>
 </section><section id="share-your-work" class="level3" data-number="3.5.6"><h3 data-number="3.5.6" class="anchored" data-anchor-id="share-your-work">
 <span class="header-section-number">3.5.6</span> Share your work</h3>
 <p>Once you’ve completed this activity, post it in the Week 3 channel on Teams so that you can compare which plots you chose and visual style with other learners on the course.</p>
@@ -2281,7 +2281,7 @@ More plots styles
 <ul>
 <li><a href="https://raw.githubusercontent.com/rstudio/cheatsheets/main/data-visualization.pdf">ggplot2 cheat sheet</a></li>
 <li>
-<a href="https://healthteachr.github.io/introdataviz/">Data visualisation using R, for researchers who don’t use R</a> <span class="citation" data-cites="nordmann_2021">(<a href="11-refs.html#ref-nordmann_2021" role="doc-biblioref">Nordmann et al., 2021</a>)</span>
+<a href="https://healthteachr.github.io/introdataviz/">Data visualisation using R, for researchers who don’t use R</a> <span class="citation" data-cites="nordmann_2021">(<a href="#ref-nordmann_2021" role="doc-biblioref">Nordmann et al., 2021</a>)</span>
 </li>
 <li>
 <a href="http://r4ds.had.co.nz/data-visualisation.html">Chapter 3: Data Visualisation</a> of <em>R for Data Science</em>
@@ -2298,7 +2298,7 @@ More plots styles
 </ul>
 
 
-<div id="refs" class="references csl-bib-body hanging-indent" data-entry-spacing="0" data-line-spacing="2" role="list" style="display: none">
+<div id="refs" class="references csl-bib-body hanging-indent" data-entry-spacing="0" data-line-spacing="2" role="list">
 <div id="ref-nordmann_2021" class="csl-entry" role="listitem">
 Nordmann, E., McAleer, P., Toivo, W., Paterson, H., &amp; DeBruine, L. M. (2021). <em>Data visualisation using <span>R</span>, for researchers who don’t use <span>R</span></em>. PsyArXiv. <a href="https://doi.org/10.31234/osf.io/4huvw">https://doi.org/10.31234/osf.io/4huvw</a>
 </div>
